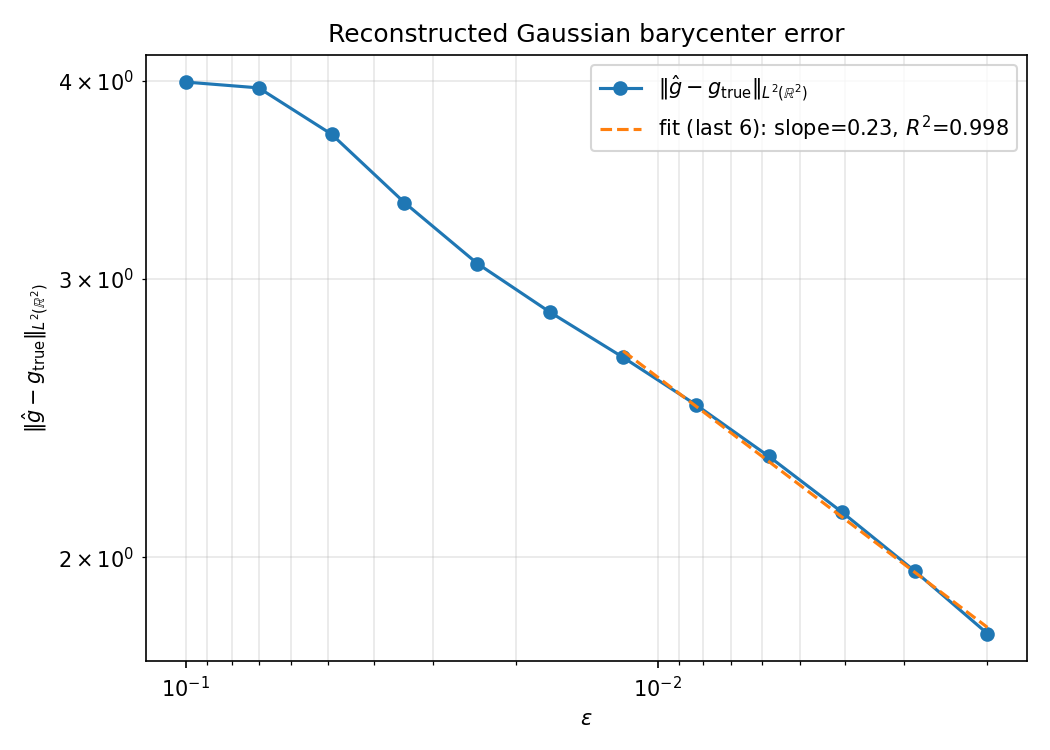
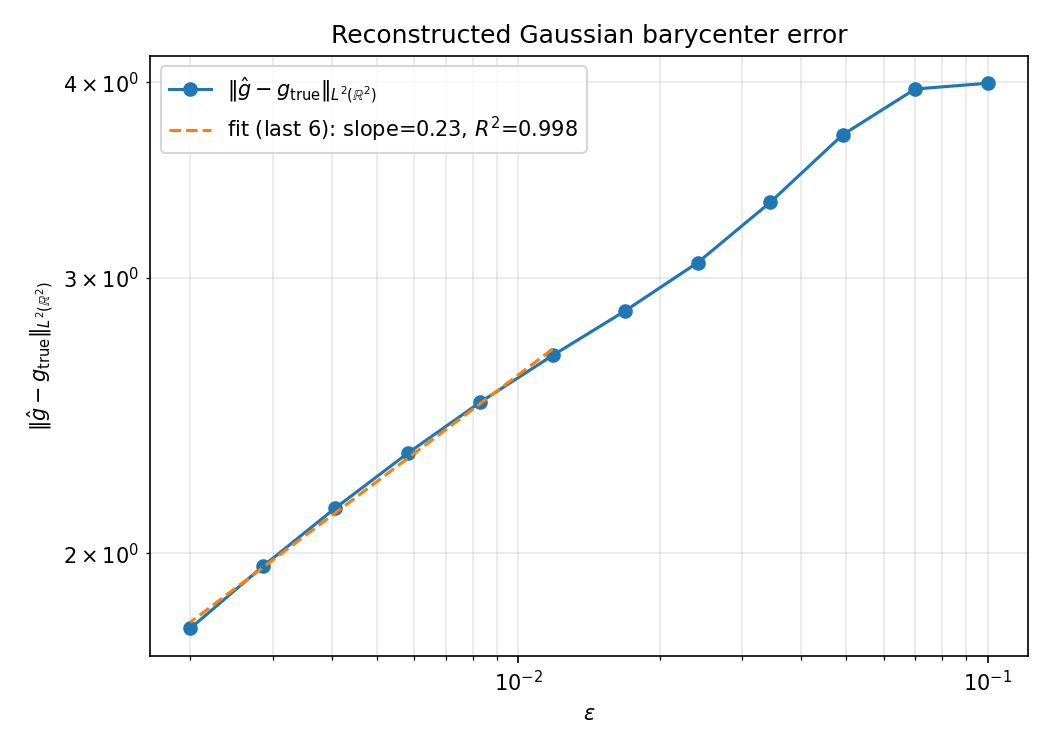
flip graph

diff --git a/experiments/debiased_barycenter_error.py b/experiments/debiased_barycenter_error.py
@@ -85,10 +85,7 @@ def plot_from_npz():
     log_norm_tail = log_norm[num_points:]
     slope, intercept = np.polyfit(log_eps_tail, log_norm_tail, 1)
     fit_line = np.exp(intercept) * eps_tail ** slope
-    ss_res = np.sum((log_norm_tail - (slope * log_eps_tail + intercept)) ** 2)
-    ss_tot = np.sum((log_norm_tail - np.mean(log_norm_tail)) ** 2)
-    r2 = 1 - ss_res / ss_tot if ss_tot > 0 else float("nan")
-    print(f"Fit (last {-num_points}): error ≈ {np.exp(intercept):.4g} * eps^{slope:.4f}  (R²={r2:.4f})")
+    print(f"Fit (last {-num_points}): error ≈ {np.exp(intercept):.4g} * eps^{slope:.4f}")
 
     fig, ax = plt.subplots(figsize=(7, 5))
     ax.plot(epsilons, norm, marker="o",
@@ -97,7 +94,6 @@ def plot_from_npz():
             label=fr"fit (last {-num_points}): slope={slope:.2f}, $R^2$={r2:.3f}")
     ax.set_xscale("log")
     ax.set_yscale("log")
-    ax.invert_xaxis()
     ax.set_xlabel(r"$\varepsilon$")
     ax.set_ylabel(r"$\|\hat g - g_{\mathrm{true}}\|_{L^2(\mathbb{R}^2)}$")
     ax.set_title("Reconstructed Gaussian barycenter error")